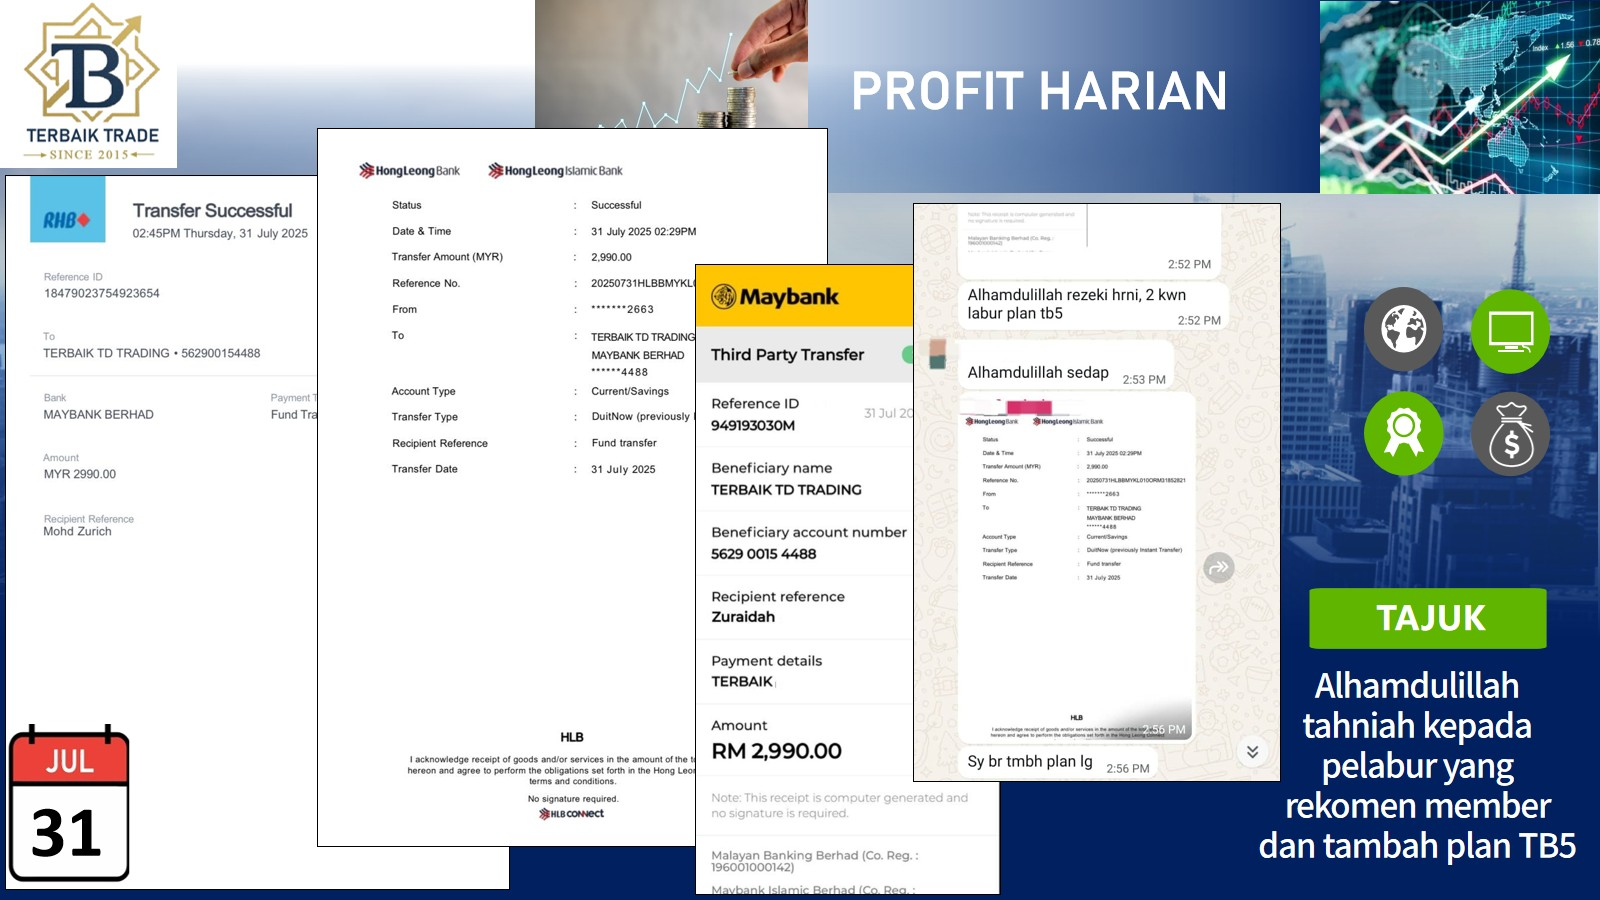
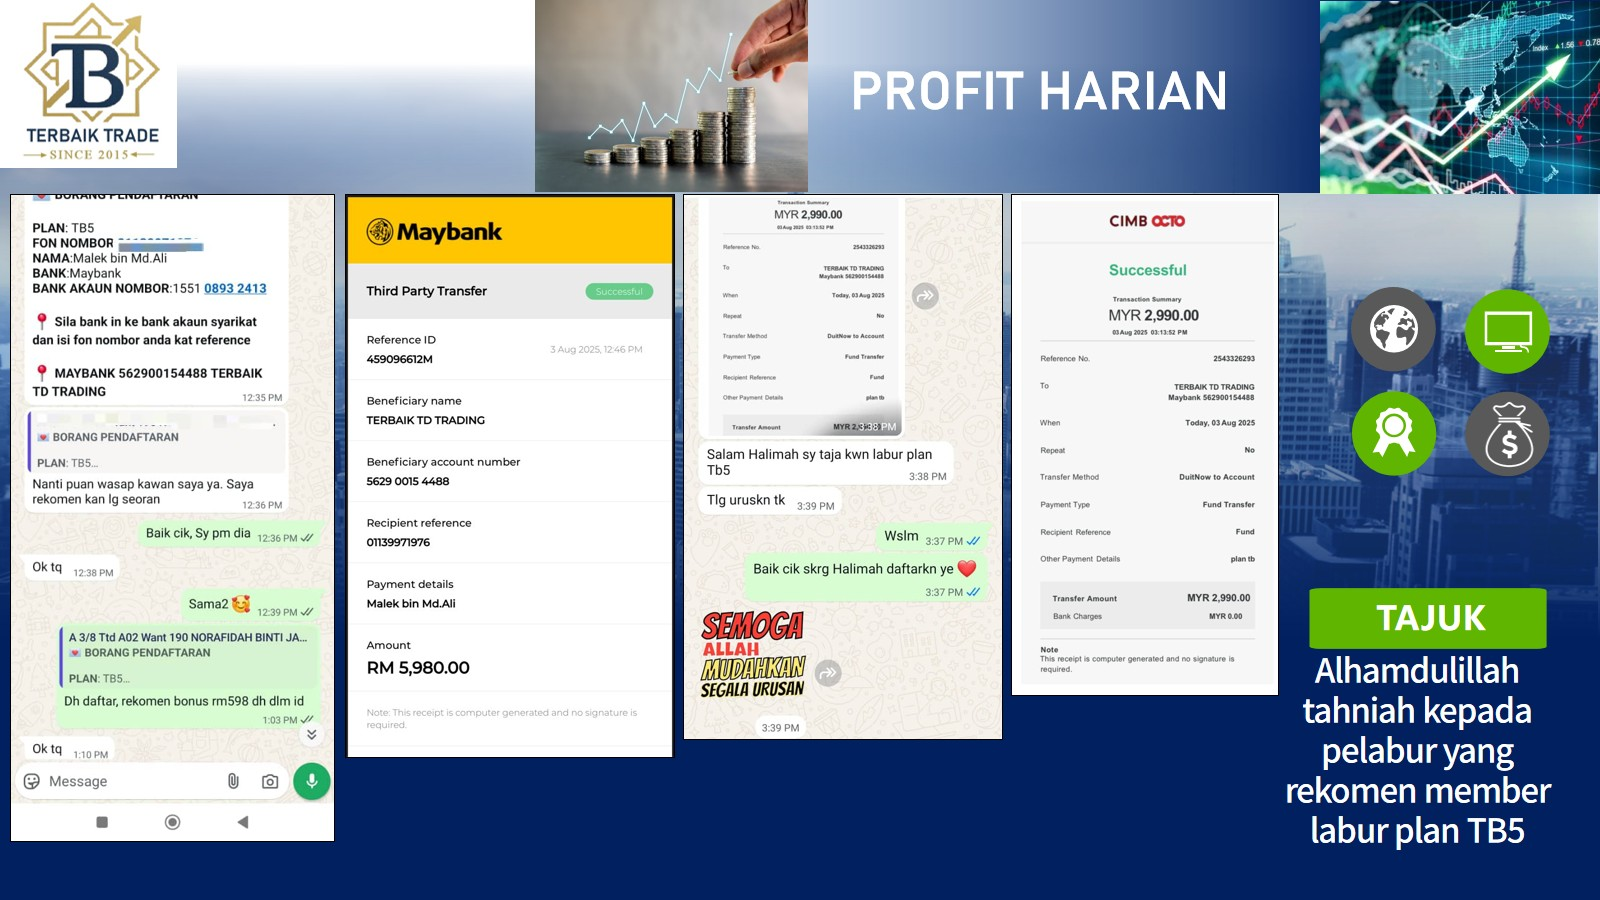
update add new testimony

diff --git a/index.html b/index.html
@@ -82,8 +82,9 @@
                 <div class="swiper-wrapper">
                     <!-- Slides -->
                     <div class="swiper-slide"><img src="img/testimony/testimony/testimony-1.jpg"></div>
-                    <div class="swiper-slide"><img src="img/testimony/testimony/testimony-2.png"></div>
+                    <div class="swiper-slide"><img src="img/testimony/testimony/testimony-2.jpg"></div>
                     <div class="swiper-slide"><img src="img/testimony/testimony/testimony-3.png"></div>
+                    <div class="swiper-slide"><img src="img/testimony/testimony/testimony-4.png"></div>
                 </div>
                 <!-- If we need pagination -->
                 <div class="swiper-pagination"></div>
